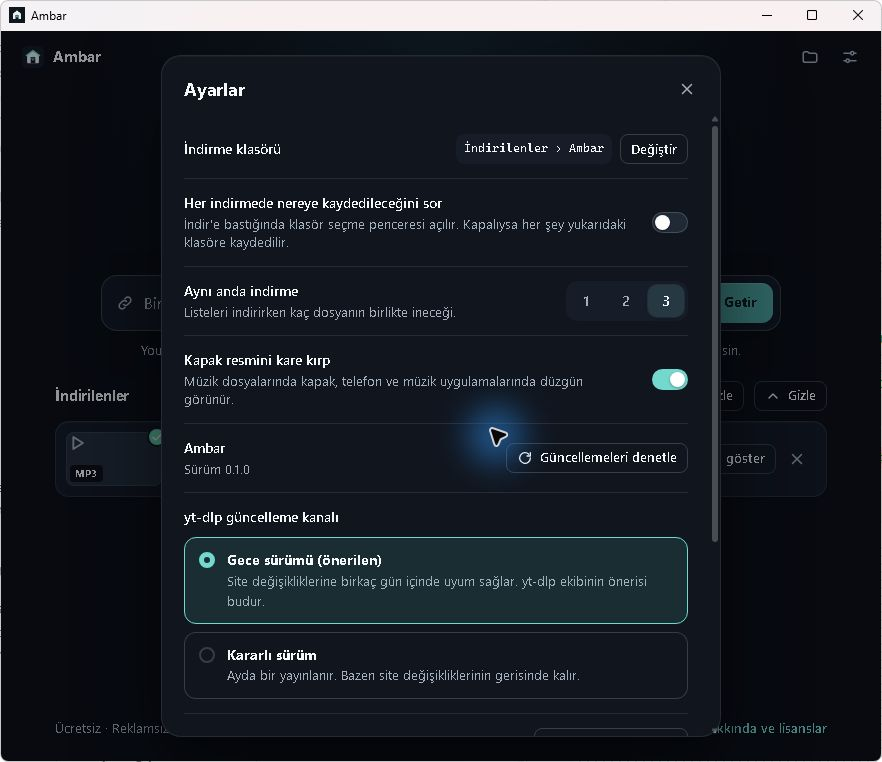
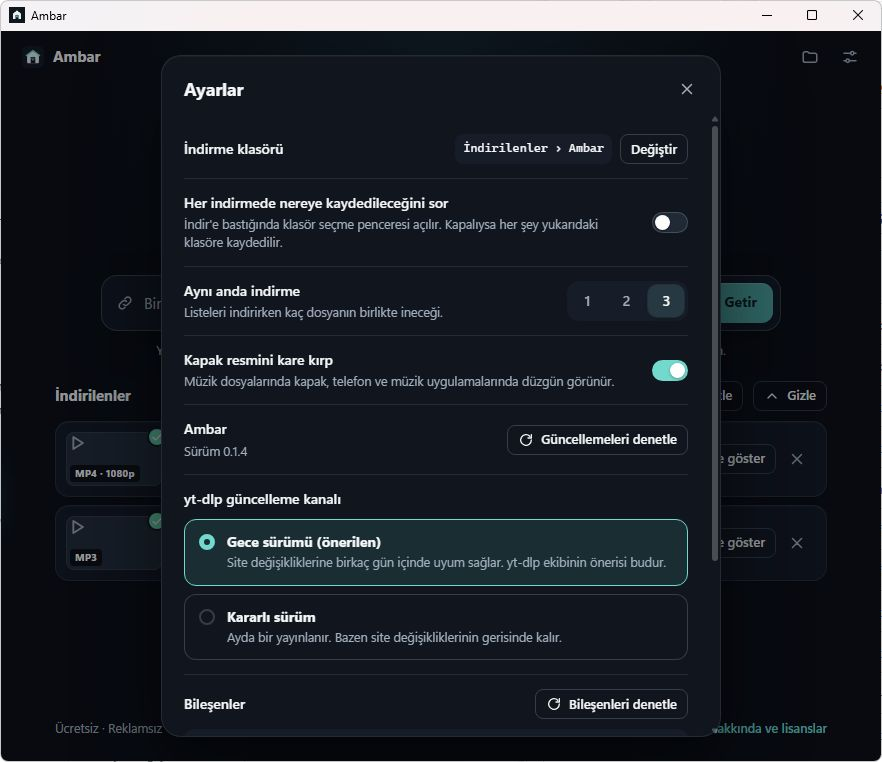
readme-full-audit

diff --git a/README.md b/README.md
@@ -27,6 +27,8 @@ Kaynak siteye ve içerik türüne göre kullanılabilen özellikler değişebili
 
 Gerçek Windows kurulumundan alınmıştır. Önizleme ve dönüşüm örneğinde [Wikimedia Commons'taki RunningWater](https://commons.wikimedia.org/wiki/File:RunningWater.webm) kullanıldı.
 
+![Ambar ana ekranı](assets/screenshots/ambar-windows.png)
+
 ![Ambar video önizlemesi ve MP4 seçenekleri](assets/screenshots/ambar-video.png)
 
 | İndirme geçmişi | Güncelleme denetimi |
@@ -41,24 +43,23 @@ Gerçek Windows kurulumundan alınmıştır. Önizleme ve dönüşüm örneğind
 4. **Ses** veya **Video** biçimini, varsa kalite ve altyazı seçeneklerini seç; **İndir** düğmesine bas.
 5. Sonuçları **İndirilenler** bölümünden aç veya klasörde göster.
 
-İlk imzalı sürüm olan **0.1.0** öncesindeki deneme kurulumu güncelleme anahtarını içermez. Deneme kurulumunu kullananların [son kurulum dosyasını](https://github.com/anilcanolcer/ambar/releases/latest) **bir kez elle kurması gerekir**.
+Windows'ta FFmpeg'nin ilk kurulumu yaklaşık 109 MB'lık bir arşiv indirir. Ambar önce FFmpeg derlemesini yayımlayan Gyan Doshi'nin resmî GitHub aynasını kullanır; bağlantı yavaş veya erişilemezse yayıncının sitesini dener. Her iki kaynakta da indirilen dosya yayıncının SHA-256 özetiyle doğrulanır. Bileşen ekranı indirilen miktarı, yüzdeyi ve arşiv açma aşamasını ayrı gösterir.
+
+macOS paketi de indirilebilir. Apple noter onayı henüz yapılandırılmadığından macOS açılışta yayıncı uyarısı gösterebilir.
 
 ## 🔄 Uygulama nasıl güncellenir?
 
 Ambar yalnızca bu deponun imzalı GitHub sürümlerini kabul eder. Yeni kod `main` dalına eklendiğinde GitHub Actions yeni sürüm numarasıyla Windows ve macOS paketlerini oluşturur; iki platform ve `latest.json` doğrulanırsa sürümü yayımlar. Derleme başarısızsa sürüm yayımlanmaz.
 
-**0.1.0** sürümü güncellemeyi uygulama açıldıktan sonra denetler ve **Güncelle** düğmesini gösterir. Sonraki sürümler güncellemeyi ana ekran açılmadan önce denetleyip mevcutsa indirir, imzasını doğrular, kurar ve yeni sürümü açar. İnternet bağlantısı yoksa uygulama mevcut sürümle devam eder. Kurulum hata verirse **Tekrar dene** ve **Eski sürümü aç** seçenekleri bulunur.
-
-Windows'ta FFmpeg'nin ilk kurulumu yaklaşık 109 MB'lık bir arşiv indirir. Ambar önce FFmpeg derlemesini yayımlayan Gyan Doshi'nin resmî GitHub aynasını kullanır; bağlantı yavaş veya erişilemezse yayıncının sitesini dener. Her iki kaynakta da indirilen dosya yayıncının SHA-256 özetiyle doğrulanır. Bileşen ekranı indirilen miktarı, yüzdeyi ve arşiv açma aşamasını ayrı gösterir.
+Güncel Ambar sürümleri açılışta, ana ekran gelmeden önce güncellemeyi denetler. Yeni sürüm varsa indirir, imzasını doğrular, kurar ve yeniden açılır. İnternet bağlantısı yoksa mevcut sürümle devam eder. Kurulum hata verirse **Tekrar dene** ve **Eski sürümü aç** seçenekleri bulunur. İlk deneme kurulumunu kullananlar otomatik güncelleme anahtarını içermediği için [son setup dosyasını](https://github.com/anilcanolcer/ambar/releases/latest) bir kez elle kurmalıdır.
 
 Tauri güncelleme imzası, Windows/macOS işletim sistemi kod imzalama sertifikasıyla aynı şey değildir. İşletim sistemi yayıncısı doğrulanamadı uyarısı gösterebilir.
 
 ## ✅ Doğrulananlar
 
-- Windows imzalı **0.1.0** kurulumu açıldı; uygulama içindeki denetim **“Ambar güncel”** sonucunu verdi.
+- Windows'ta kurulu Ambar, **0.1.0 → 0.1.3** yükseltmesini uygulama içinden yaptı. **0.1.3 → 0.1.4** yükseltmesi açılışta kullanıcı tıklaması olmadan kuruldu; ayarlarda **0.1.4** doğrulandı.
 - Wikimedia Commons örneği MP3 ve MP4 olarak indirildi. MP4 dosyası H.264 video ve AAC ses içeriyor; FFmpeg ile hatasız çözümlendi.
-- Windows ve macOS imzalı paketleri GitHub Actions'da üretildi; `latest.json` her iki platformun imzalarını içeriyor.
-- Kurulu Windows uygulaması **0.1.0 → 0.1.3** yükseltmesini uygulama içinden yaptı. **0.1.3 → 0.1.4** yükseltmesi ise açılışta kullanıcı tıklaması olmadan kuruldu; Ambar yeni sürümle yeniden açıldı.
+- Windows ve macOS paketleri GitHub Actions'da üretildi; `latest.json` her iki platformun Tauri güncelleme imzalarını içeriyor.
 - FFmpeg'nin resmî GitHub aynasındaki dosya ve 1 MB'lık örnek indirme doğrulandı. Diğer bilgisayardaki ilk kurulumun daha hızlı tamamlandığı kullanıcı tarafından bildirildi; farklı ağlardaki hız değişebilir.
 - macOS paketi derlendi ve yayımlandı. Bu Windows bilgisayarda macOS kullanım testi yapılamadı; Apple noter onayı henüz yapılandırılmadı.
 
